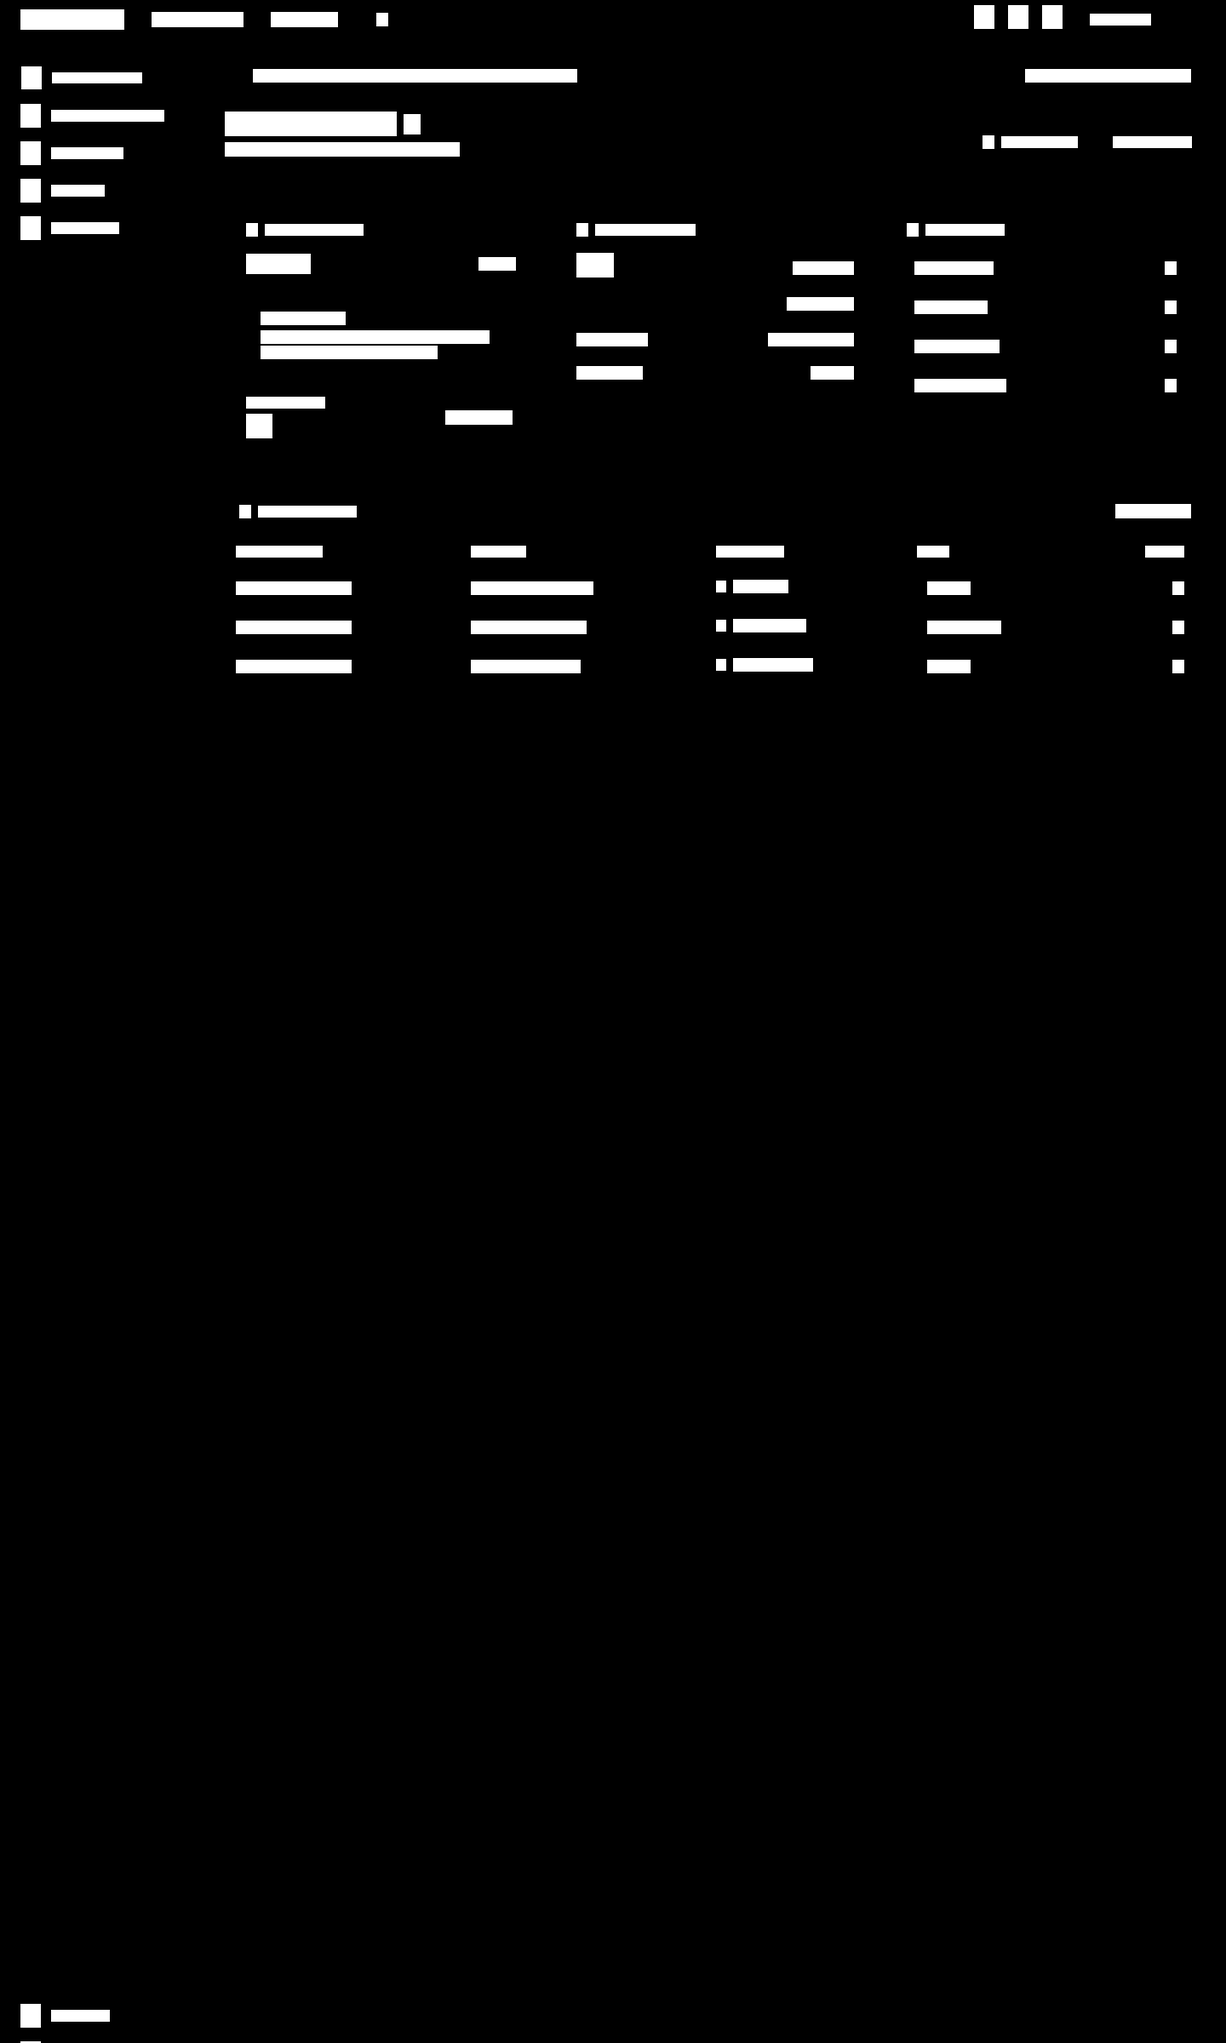
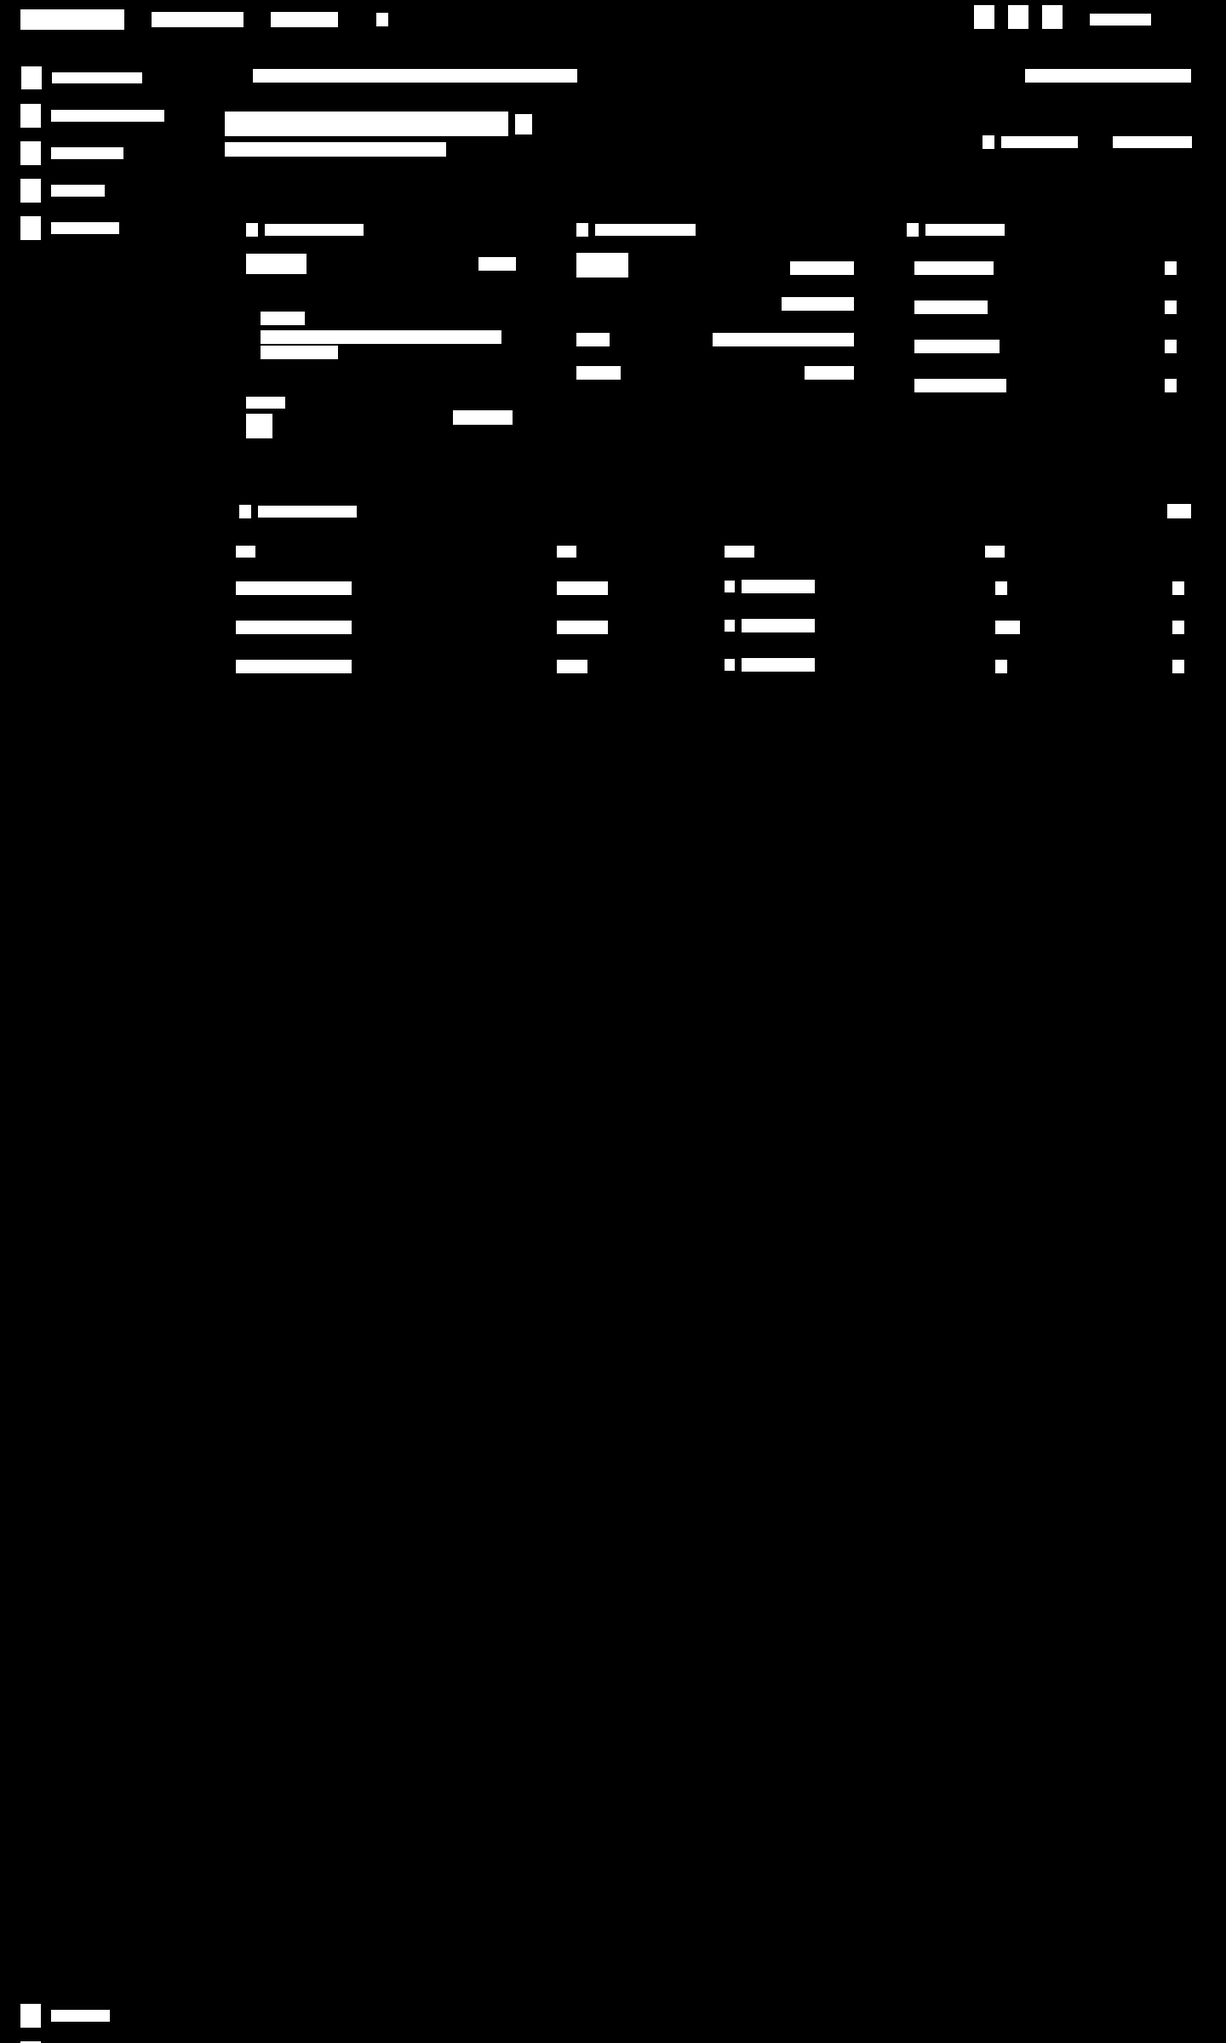
feat(ops): rebuild store detail cards to Stitch 08 and expose shop scopes
后端补口（稿子屏 08 的第三张卡需要）：
- apps/api/src/ops/ops.service.ts 把 Shop.scopes 经 /ops/shops/:domain 暴露
- ShopDetail 类型加 scopes: string[]

shop_detail 三张卡按稿子屏 08 重建：
- 订阅状态：套餐 + 状态签 + 「需要处理」告警 + 剩余天数 + 延长解冻期
- AI 解决用量：大数字 + 额度 + 利用率条 + 本周期 + 超额预估（206×$0.90）
- 授权范围：scope 逐条带勾叉

修掉一个真 bug：授权范围原本只遍历已授予的 scope，**缺失项永远不显示** ——
而这张卡的意义正是显示缺什么。改为遍历必需 scope 全集。

impersonation 目标图还原（我改的替换标记与实现不同构，反而变差 21.34→21.82）；
内容区审计条同理撤回（17.43→18.22）。两次都是实测判定，不是猜。

新源遮罩后：accounts 32.37% / system 64.20% / impersonation 21.82% / shop_detail 17.50%。

根因已写进 work/phase-c.json：新源的页面是凭眼睛移植的，**从没跑过阶段 A 的重建步**。
skill 的流程是「按 spec 重建静态 HTML → verify 到 A 级 → 才准进阶段 B」，
这一步被跳过，导致页面与稿子结构上就不同构，局部修正必然按下葫芦浮起瓢。

diff --git a/apps/ops/app/shops/[domain]/page.tsx b/apps/ops/app/shops/[domain]/page.tsx
@@ -2,49 +2,32 @@
 
 import { useCallback, useEffect, useState } from 'react';
 import Link from 'next/link';
-import { Hourglass, Mail, ReceiptText, Activity } from 'lucide-react';
+import {
+  Activity,
+  CheckCircle2,
+  CreditCard,
+  Mail,
+  ShieldCheck,
+  XCircle,
+} from 'lucide-react';
 import { AuthGate } from '@/app/components/auth-gate';
 import { OpsShell } from '@/app/components/shell';
 import { ShopActions } from '@/app/shops/[domain]/actions';
 import { formatAuditAction, opsFetch, type AuditLogPage, type ShopDetail } from '@/lib/api';
+import { extendFreeze } from '@/lib/shop-actions';
 
-const PANEL = 'bg-card-surface flex h-full flex-col gap-4 p-5';
-const PANEL_HEAD = 'border-outline-variant flex items-center gap-2 border-b pb-2';
-const PANEL_TITLE = 'font-label-caps text-label-caps m-0 font-bold uppercase tracking-widest';
-const KV = 'border-outline-variant/10 flex items-end justify-between border-b pb-1';
-const KV_KEY = 'font-data-mono text-on-surface-variant text-[11px] uppercase';
-const KV_VAL = 'font-data-mono text-[13px]';
+const CARD = 'bg-primary-container border-card-border rounded-xl border p-6';
+
+/** Shopify 安装需要的 scope，用于「授权范围」卡的缺失检测 */
+const REQUIRED_SCOPES = [
+  'read_products',
+  'write_orders',
+  'read_customers',
+  'write_inventory',
+];
 
 function fmt(d: string | null | undefined) {
   return d ? String(d).slice(0, 10) : '—';
-}
-
-/** 用量计。超额那条给 error 色 —— 只有需要处理的才拿到颜色。 */
-function Meter({ label, used, limit }: { label: string; used: number; limit: number }) {
-  const over = used > limit;
-  const pct = Math.min(Math.round((used / Math.max(limit, 1)) * 100), 100);
-  return (
-    <div className="flex flex-col gap-1">
-      <div className="font-data-mono flex justify-between text-[11px]">
-        <span className="uppercase">{label}</span>
-        <span className={over ? 'text-error font-bold' : undefined}>
-          {used.toLocaleString()} / {limit.toLocaleString()}
-        </span>
-      </div>
-      <div
-        className={
-          over
-            ? 'bg-error-container border-error h-2 w-full overflow-hidden border'
-            : 'bg-surface border-outline-variant h-2 w-full overflow-hidden border'
-        }
-      >
-        <div
-          className={over ? 'bg-error h-full w-full' : 'bg-primary h-full'}
-          style={over ? undefined : { width: `${pct}%` }}
-        />
-      </div>
-    </div>
-  );
 }
 
 export default function ShopDetailPage({ params }: { params: Promise<{ domain: string }> }) {
@@ -72,6 +55,11 @@ export default function ShopDetailPage({ params }: { params: Promise<{ domain: s
   useEffect(reload, [reload]);
 
   const frozen = shop?.status?.toUpperCase() === 'FROZEN';
+  const aiUsed = shop?.aiResolved ?? 0;
+  const aiLimit = shop?.aiResolvedLimit ?? 0;
+  const aiOver = aiUsed > aiLimit;
+  const aiPct = Math.min(Math.round((aiUsed / Math.max(aiLimit, 1)) * 100), 100);
+  const overageUsd = Math.max(aiUsed - aiLimit, 0) * 0.9;
   const terminal = ['DECLINED', 'EXPIRED', 'CANCELLED'].includes(
     (shop?.status ?? '').toUpperCase(),
   );
@@ -102,7 +90,7 @@ export default function ShopDetailPage({ params }: { params: Promise<{ domain: s
           {error ? <p className="text-error text-sm">{error}</p> : null}
 
           {/* Header */}
-          <div className="border-outline-variant flex flex-col items-start justify-between gap-4 border-b pb-4 md:flex-row md:items-end">
+          <div className="flex flex-col items-start justify-between gap-4 pb-4 md:flex-row md:items-end">
             <div>
               <div className="mb-1 flex items-center gap-3">
                 <h1 className="font-headline-lg text-headline-lg text-on-surface m-0 font-bold tracking-tight">
@@ -140,98 +128,143 @@ export default function ShopDetailPage({ params }: { params: Promise<{ domain: s
             ) : null}
           </div>
 
-          {/* 三栏面板：格线靠父级 bg-primary 透出 */}
-          <div className="border-outline-variant bg-primary grid shrink-0 grid-cols-1 gap-0 border md:grid-cols-2 lg:grid-cols-3">
-            {/* 计费 */}
-            <div className={`${PANEL} border-outline-variant border-b md:border-b-0 md:border-r`}>
-              <div className={PANEL_HEAD}>
-                <ReceiptText className="h-6 w-6" aria-hidden="true" />
-                <h2 className={PANEL_TITLE}>计费</h2>
+          {/* 稿子屏 08 的 Bento：订阅状态 / AI 解决用量 / 授权范围 */}
+          <div className="grid grid-cols-12 gap-3">
+            {/* 订阅状态 */}
+            <div className={`col-span-12 lg:col-span-4 ${CARD}`}>
+              <h3 className="font-label-caps text-label-caps text-on-surface-variant mb-4 flex items-center gap-2">
+                <CreditCard className="h-4 w-4" aria-hidden="true" />
+                订阅状态
+              </h3>
+              <div className="mb-6 flex items-center justify-between">
+                <span className="font-headline-md text-headline-md text-on-surface font-bold">
+                  {shop?.planName ?? shop?.planCode ?? '—'}
+                </span>
+                <span
+                  className={
+                    frozen
+                      ? 'bg-error-container/20 text-error border-error/30 font-data-mono text-data-mono flex items-center gap-1 rounded border px-2 py-1'
+                      : 'bg-surface-container text-on-surface-variant border-outline-variant font-data-mono text-data-mono flex items-center gap-1 rounded border px-2 py-1'
+                  }
+                >
+                  <span className={frozen ? 'bg-error h-1.5 w-1.5 rounded-full' : 'bg-on-surface-variant h-1.5 w-1.5 rounded-full'} />
+                  {(shop?.status ?? '—').toUpperCase()}
+                </span>
               </div>
-              <div className="flex flex-1 flex-col justify-center gap-3">
-                <div className={KV}>
-                  <span className={KV_KEY}>套餐</span>
-                  <span className={`${KV_VAL} font-bold`}>
-                    {shop?.planName ?? shop?.planCode ?? '—'}
-                    {shop?.planPriceUsd ? ` · $${shop.planPriceUsd}/月` : ''}
-                  </span>
-                </div>
-                <div className={KV}>
-                  <span className={KV_KEY}>安装于</span>
-                  <span className={KV_VAL}>{fmt(shop?.installedAt)}</span>
-                </div>
-                <div className={KV}>
-                  <span className={KV_KEY}>下次扣费</span>
-                  <span className={`${KV_VAL} ${frozen ? 'text-error font-bold' : ''}`}>
-                    {frozen ? '欠费' : fmt(shop?.currentPeriodEnd)}
-                  </span>
-                </div>
-                <div className="flex items-end justify-between">
-                  <span className={KV_KEY}>上次成功扣费</span>
-                  <span className={KV_VAL}>{fmt(shop?.lastSuccessfulChargeAt)}</span>
-                </div>
-              </div>
-            </div>
-
-            {/* 本周期用量 */}
-            <div className={`${PANEL} border-outline-variant border-b lg:border-b-0 lg:border-r`}>
-              <div className={PANEL_HEAD}>
-                <Activity className="h-6 w-6" aria-hidden="true" />
-                <h2 className={PANEL_TITLE}>本周期用量</h2>
-              </div>
-              <div className="flex flex-1 flex-col justify-center gap-4">
-                <Meter label="对话" used={shop?.chatCount ?? 0} limit={shop?.chatLimit ?? 0} />
-                <Meter
-                  label="AI 解决"
-                  used={shop?.aiResolved ?? 0}
-                  limit={shop?.aiResolvedLimit ?? 0}
-                />
-                <Meter
-                  label="坐席"
-                  used={shop?.agentSeats ?? 0}
-                  limit={shop?.agentSeatsLimit ?? 0}
-                />
-                {shop?.overQuotaNote ? (
-                  <p className="font-data-mono text-on-surface-variant m-0 text-[11px]">
-                    {shop.overQuotaNote}
+              {frozen ? (
+                <div className="bg-surface-container border-error/20 mb-4 rounded border p-4">
+                  <p className="font-body-sm text-body-sm text-error m-0 mb-1 font-semibold">
+                    需要处理
                   </p>
-                ) : null}
+                  <p className="font-body-sm text-body-sm text-on-surface-variant m-0">
+                    该店处在 30 天解冻窗口内。逾期后订阅终止，只能重新走一次。
+                  </p>
+                </div>
+              ) : null}
+              <div className="border-card-border flex items-center justify-between border-t pt-2">
+                <div>
+                  <p className="font-label-caps text-label-caps text-on-surface-variant m-0 mb-1">
+                    剩余天数
+                  </p>
+                  <p
+                    className={`font-display-sm text-display-sm m-0 font-bold ${frozen ? 'text-error' : 'text-on-surface'}`}
+                  >
+                    {daysLeft !== null ? String(daysLeft).padStart(2, '0') : '—'}
+                  </p>
+                </div>
+                <button
+                  type="button"
+                  onClick={() => {
+                    const v = window.prompt('延长解冻期多少天？（1–30）', '7');
+                    if (v === null) return;
+                    const days = Number(v);
+                    if (!Number.isInteger(days) || days < 1 || days > 30) return;
+                    void extendFreeze(domain, days).then(reload);
+                  }}
+                  title={`${frozen ? '解冻截止' : '下次扣费'} ${fmt(windowEnd)}`}
+                  className="text-primary hover:text-primary-fixed border-primary/30 bg-primary-container/20 font-label-caps rounded border px-3 py-1 text-sm transition-colors"
+                >
+                  延长解冻期
+                </button>
               </div>
             </div>
 
-            {/* 可用期 */}
-            <div className={PANEL}>
-              <div className={PANEL_HEAD}>
-                <Hourglass className="h-6 w-6" aria-hidden="true" />
-                <h2 className={PANEL_TITLE}>可用期</h2>
+            {/* AI 解决用量 */}
+            <div className={`col-span-12 lg:col-span-4 ${CARD}`}>
+              <h3 className="font-label-caps text-label-caps text-on-surface-variant mb-4 flex items-center gap-2">
+                <Activity className="h-4 w-4" aria-hidden="true" />
+                AI 解决用量
+              </h3>
+              <div className="mb-2 flex items-end justify-between">
+                <span className="font-display-sm text-display-sm text-on-surface font-bold">
+                  {(shop?.aiResolved ?? 0).toLocaleString()}
+                </span>
+                <span className="text-on-surface-variant font-data-mono text-[12px]">
+                  / {(shop?.aiResolvedLimit ?? 0).toLocaleString()} Limit
+                </span>
               </div>
-              <div className="flex flex-1 flex-col items-center justify-center gap-4 text-center">
-                <div className="flex flex-col items-center">
-                  <div
-                    className={`font-data-mono mb-1 text-[10px] uppercase tracking-widest ${frozen ? 'text-frozen-accent' : 'text-on-surface-variant'}`}
-                  >
-                    剩余
-                  </div>
-                  <div className="font-headline-lg text-on-surface text-[52px] font-black leading-none tracking-tighter">
-                    {daysLeft ?? '—'} 天
-                  </div>
-                </div>
-                <div className="flex w-full flex-col gap-1">
-                  <div className="font-data-mono text-on-surface-variant flex justify-between text-[10px]">
-                    <span>{frozen ? '冻结中' : '当前周期'}</span>
-                    <span>{frozen ? '订阅终止' : '下次扣费'}</span>
-                  </div>
-                  <div className="bg-surface border-outline-variant flex h-3 w-full border">
-                    <div
-                      className={`border-outline-variant h-full border-r ${frozen ? 'bg-frozen-accent' : 'bg-on-surface-variant'}`}
-                      style={{ width: `${spent}%` }}
-                    />
-                    <div className="relative h-full flex-1 overflow-hidden bg-transparent">
-                      <div className="runway-hatch-frozen absolute inset-0" />
-                    </div>
-                  </div>
-                </div>
+              <div className="bg-surface-container border-outline-variant mb-1 h-2 w-full overflow-hidden rounded border">
+                <div
+                  className={aiOver ? 'bg-error h-full w-full' : 'bg-primary h-full'}
+                  style={aiOver ? undefined : { width: `${aiPct}%` }}
+                />
               </div>
+              <div className="text-on-surface-variant font-data-mono mb-4 text-right text-[11px]">
+                {aiPct}% Utilized
+              </div>
+              <dl className="m-0 flex flex-col gap-2">
+                <div className="flex items-center justify-between">
+                  <dt className="text-on-surface-variant font-body-sm text-body-sm">本周期</dt>
+                  <dd className="font-data-mono text-on-surface m-0 text-[12px]">
+                    {fmt(shop?.periodStart)} – {fmt(shop?.currentPeriodEnd)}
+                  </dd>
+                </div>
+                <div className="flex items-center justify-between">
+                  <dt className="text-on-surface-variant font-body-sm text-body-sm">超额预估</dt>
+                  <dd className={`font-data-mono m-0 text-[12px] ${aiOver ? 'text-error' : 'text-on-surface'}`}>
+                    {aiOver ? `+$${overageUsd.toFixed(2)}` : '$0.00'}
+                  </dd>
+                </div>
+              </dl>
+            </div>
+
+            {/* 授权范围 —— 数据源 Shop.scopes，本轮新暴露 */}
+            <div className={`col-span-12 lg:col-span-4 ${CARD}`}>
+              <h3 className="font-label-caps text-label-caps text-on-surface-variant mb-4 flex items-center gap-2">
+                <ShieldCheck className="h-4 w-4" aria-hidden="true" />
+                授权范围
+              </h3>
+              <ul className="m-0 flex list-none flex-col gap-2 p-0">
+                {Array.from(new Set([...REQUIRED_SCOPES, ...(shop?.scopes ?? [])])).map((sc) => {
+                  const granted = shop?.scopes?.includes(sc) ?? false;
+                  return (
+                    <li
+                      key={sc}
+                      className={
+                        granted
+                          ? 'bg-surface-container-low border-outline-variant flex items-center justify-between rounded border p-2'
+                          : 'bg-error-container/10 border-error/50 flex items-center justify-between rounded border p-2'
+                      }
+                    >
+                      <span
+                        className={`font-data-mono text-data-mono ${granted ? 'text-on-surface' : 'text-error'}`}
+                      >
+                        {sc}
+                      </span>
+                      {granted ? (
+                        <CheckCircle2 className="text-primary h-4 w-4" aria-hidden="true" />
+                      ) : (
+                        <XCircle className="text-error h-4 w-4" aria-hidden="true" />
+                      )}
+                    </li>
+                  );
+                })}
+              </ul>
+              {!shop?.scopes?.length ? (
+                <p className="text-on-surface-variant m-0 mt-3 text-[11px]">
+                  尚未记录授权范围（安装时未回写 scopes）
+                </p>
+              ) : null}
             </div>
           </div>
 

diff --git a/apps/ops/app/tokens.css b/apps/ops/app/tokens.css
@@ -8,6 +8,7 @@
 :root {
   --stock: #131315;
   --sheet: #0f172a;
+  --card-border: #1e293b;   /* 稿子屏 08 的卡片描边 */
   --sheet-2: #1b1b1d;
   --ink: #e4e2e4;
   --ink-2: #c6c6cd;
@@ -55,6 +56,7 @@
   :root:not([data-theme="light"]) {
     --stock: #131315;
     --sheet: #0f172a;
+    --card-border: #1e293b;   /* 稿子屏 08 的卡片描边 */
     --sheet-2: #1b1b1d;
     --ink: #e4e2e4;
     --ink-2: #c6c6cd;
@@ -102,6 +104,7 @@
 :root[data-theme="dark"] {
     --stock: #131315;
     --sheet: #0f172a;
+    --card-border: #1e293b;   /* 稿子屏 08 的卡片描边 */
     --sheet-2: #1b1b1d;
     --ink: #e4e2e4;
     --ink-2: #c6c6cd;

diff --git a/apps/api/src/ops/ops.service.ts b/apps/api/src/ops/ops.service.ts
@@ -252,6 +252,8 @@ export class OpsService {
       lastSuccessfulChargeAt:
         sub?.status === 'ACTIVE' && sub.updatedAt ? sub.updatedAt.toISOString() : null,
       periodStart: periodStart?.toISOString() ?? null,
+      /** 稿子屏 08 的「授权范围」卡：Shop.scopes 是逗号分隔的 OAuth scope */
+      scopes: shop.scopes ? shop.scopes.split(',').map((x) => x.trim()).filter(Boolean) : [],
     };
   }
 

diff --git a/apps/ops/app/globals.css b/apps/ops/app/globals.css
@@ -80,6 +80,7 @@
 
   --color-stock: var(--stock);
   --color-sheet: var(--sheet);
+  --color-card-border: var(--card-border);
   --color-sheet-2: var(--sheet-2);
   --color-ink: var(--ink);
   --color-ink-2: var(--ink-2);

diff --git a/apps/ops/lib/api.ts b/apps/ops/lib/api.ts
@@ -87,6 +87,7 @@ export type ShopDetail = {
   shopifyChargeId?: string | null;
   lastSuccessfulChargeAt?: string | null;
   periodStart?: string | null;
+  scopes?: string[];
 };
 
 export type AuditLogRow = {
